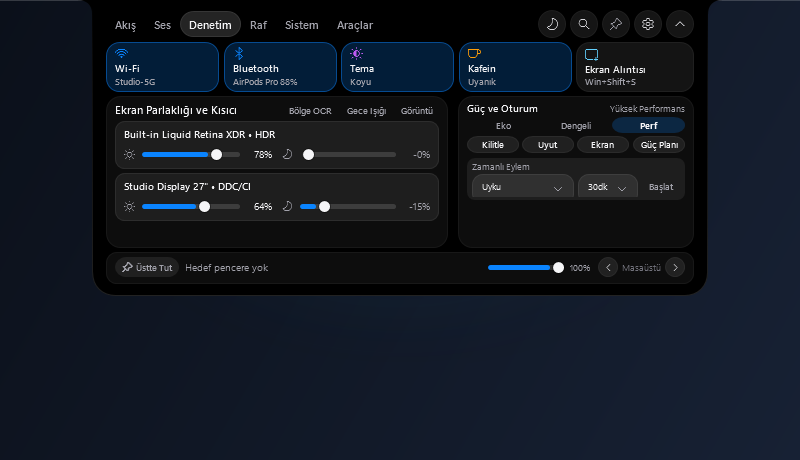
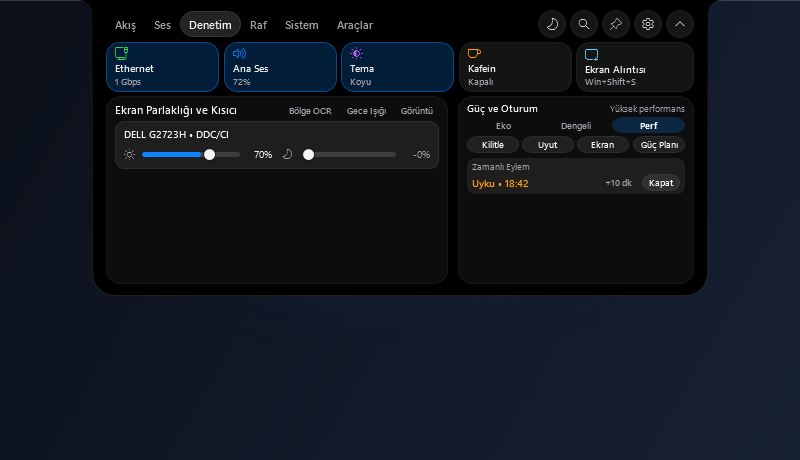
docs: refresh README stats, feature list, and showcase screenshots

diff --git a/README.md b/README.md
@@ -7,11 +7,15 @@
 ![.NET 8](https://img.shields.io/badge/.NET_8-net8.0--windows10.0.26100.0-0D1117?style=flat-square&logo=dotnet&logoColor=58A6FF)
 ![C# 12](https://img.shields.io/badge/C%23_12-x64_Native_Win32%2FCOM-0D1117?style=flat-square&logoColor=A855F7)
 ![License: MIT](https://img.shields.io/badge/License-MIT-0D1117?style=flat-square)
-![Tests: 109 Passed](https://img.shields.io/badge/xUnit-109%20Passing-0D1117?style=flat-square&logoColor=30D158)
+![Tests: 124 Passed](https://img.shields.io/badge/xUnit-124%20Passing-0D1117?style=flat-square&logoColor=30D158)
 
 <br />
 
 <img src="docs/screenshots/now-feed.png" alt="DinamikAda Expanded Feed Hub" width="88%" />
+
+<br /><br />
+
+<img src="docs/screenshots/dock-live-aurora.png" alt="DinamikAda Floating Bottom Dock & Flowing Album Aurora" width="88%" />
 
 </div>
 
@@ -22,10 +26,10 @@
 **DinamikAda** is a zero-WebView, ultra-low-overhead Windows 11 top-notch / floating island workspace utility (`WPF` + `Win32` + `COM` + `WinRT`). It merges live media controls, macOS-style dynamic album ambient aura, per-app CoreAudio mixing, hardware & Night-Light-safe software brightness dimming, real OS telemetry, clipboard encryption vault, LAN QR file drops, region OCR, and a keyboard-driven command palette into a 240Hz-aligned layered island shell.
 
 ### Measured Runtime Characteristics (`--smoke-test`)
-- **Zero WebView / Electron**: Pure WPF shell (`WebView2=False`) with native Win32/COM/WinRT hardware bridges.
-- **Idle CPU**: **`0.018% – 0.055%`** (composition render loop automatically halts when settled or paused).
-- **Motion Engine**: **`160 – 208 FPS`** measured render burst on 240Hz displays using pure `RenderTransform` / `PathGeometry` (zero layout invalidation during motion).
-- **Automated Coverage**: **`109 / 109`** xUnit unit tests + headless GPU & software smoke checks + 30-frame automated render audit.
+- **Zero WebView / Electron**: Pure WPF shell (`WebView2=False`, `RenderMode=SoftwareOnly`) with native Win32/COM/WinRT hardware bridges (`PerMonitorV2=True`).
+- **Idle CPU**: **`0.000% – 0.051%`** (`WorkingSetMB=8.34`, `PrivateMB=65.34`; composition render loop automatically halts when settled or paused).
+- **Motion Engine**: **`225.2 FPS`** measured render burst on 240Hz displays using pure `RenderTransform` / `PathGeometry` (zero layout invalidation during motion).
+- **Automated Coverage**: **`124 / 124`** xUnit unit & integration tests + headless smoke checks (`--smoke-test`) + **33-frame** automated render audit (`--render-audit`).
 
 ---
 
@@ -35,7 +39,7 @@
   <tr>
     <td width="50%" align="center">
       <img src="docs/screenshots/compact-media.png" alt="Compact Media Pill" width="100%" />
-      <sub><b>S2 Compact Pill</b> — Soft album-derived ambient aura & audio bars</sub>
+      <sub><b>S2 Compact Pill</b> — Soft album-derived ambient aura &amp; audio bars</sub>
     </td>
     <td width="50%" align="center">
       <img src="docs/screenshots/command-palette.png" alt="Command Palette" width="100%" />
@@ -44,15 +48,51 @@
   </tr>
   <tr>
     <td width="50%" align="center">
-      <img src="docs/screenshots/audio-mixer.png" alt="CoreAudio Mixer & Voice Note" width="100%" />
-      <sub><b>Audio Tab</b> — WASAPI per-app mixer, endpoint routing & instant WAV voice notes</sub>
+      <img src="docs/screenshots/audio-mixer.png" alt="CoreAudio Mixer &amp; Voice Note" width="100%" />
+      <sub><b>Audio Tab</b> — WASAPI per-app mixer, device routing &amp; 48 kHz WAV voice notes</sub>
     </td>
     <td width="50%" align="center">
       <img src="docs/screenshots/control-center.png" alt="System Control Center" width="100%" />
-      <sub><b>Control Tab</b> — DDC/CI + Win32 WS_POPUP dimmer, caffeine & virtual desktops</sub>
+      <sub><b>Control Tab</b> — DDC/CI + software dimmer, caffeine, power plans &amp; scheduled sleep</sub>
+    </td>
+  </tr>
+  <tr>
+    <td width="50%" align="center">
+      <img src="docs/screenshots/system-telemetry.png" alt="System Telemetry &amp; Process Monitor" width="100%" />
+      <sub><b>System Tab</b> — Live CPU, RAM, GPU VRAM, disk I/O, latency &amp; process monitor</sub>
+    </td>
+    <td width="50%" align="center">
+      <img src="docs/screenshots/widgets-ai-quota.png" alt="Widgets &amp; Multi-AI Quota Tracker" width="100%" />
+      <sub><b>Widgets &amp; AI Quota</b> — Focus Pulse, weather &amp; multi-account ChatGPT / Claude timers</sub>
+    </td>
+  </tr>
+  <tr>
+    <td width="50%" align="center">
+      <img src="docs/screenshots/bottom-dock.png" alt="Floating Curved Bottom Dock" width="100%" />
+      <sub><b>Floating Curved Bottom Dock</b> — Full-height work area, running dots/active pill, Island Sync &amp; album aurora</sub>
+    </td>
+    <td width="50%" align="center">
+      <img src="docs/screenshots/dock-live-aurora.png" alt="Live Desktop Dock Aurora" width="100%" />
+      <sub><b>Live Flowing Dock Aurora</b> — Multi-layer drifting radial ambient glow &amp; border rim shimmer</sub>
+    </td>
+  </tr>
+  <tr>
+    <td width="50%" align="center">
+      <img src="docs/screenshots/dock-tray-popup.png" alt="Tray Overflow Flyout" width="100%" />
+      <sub><b>Tray Overflow Flyout</b> — 5-column background apps menu with light-dismiss &amp; single-instance Chromium/Electron wake</sub>
+    </td>
+    <td width="50%" align="center">
+      <img src="docs/screenshots/dock-calendar-popup.png" alt="Clock &amp; Calendar Pop-up" width="100%" />
+      <sub><b>Clock &amp; Calendar Pop-up</b> — Live clock (HH:mm:ss) &amp; interactive monthly calendar</sub>
     </td>
   </tr>
 </table>
+
+### Floating Bottom Dock & AI Hub Highlights
+- **Floating Curved Dock (`DockWindow`)**: Cleanly hides the Windows taskbar (`ABM_SETSTATE`) so applications expand across the full monitor height (`WorkArea = 1920×1080`) with a curved obsidian capsule, Start Menu launcher, Trash slot, Island sync pill, **Intellihide** auto-hide with bottom-edge peek, and live running dots (`5×5 px`) / foreground active pill (`14×3.5 px`).
+- **Synced Flowing Album Aurora**: Multi-layer 3-orb radial glow (`DockAuraOrbPrimaryBorder`, `DockAuraOrbSecondaryBorder`, `DockAuraOrbHighlightBorder`) and rim shimmer (`DockBorderGlowBrush`) mirror the top island's active album palette while dropping to `0%` CPU when paused or hidden.
+- **Reliable Tray Overflow &amp; Calendar Pop-ups**: Non-activating (`WS_EX_NOACTIVATE`) background tray (`^`) and clock/calendar pop-ups support click-anywhere light-dismiss (`WH_MOUSE_LL`) and restore minimized/tray-hidden Electron &amp; Chromium apps cleanly without window-maximize loss.
+- **Multi-AI Subscription &amp; Quota Tracker**: Monitor multiple ChatGPT, Claude, Gemini, or custom quota countdown timers side-by-side inside the **Araçlar** tab.
 
 ---
 
@@ -72,17 +112,17 @@
 DinamikAda.sln
 ├── src/
 │   ├── DinamikAda.Core                  # Shared contracts, arbitration state machine, localization, config
-│   ├── DinamikAda.Platform.Win32        # Low-level P/Invoke, hotkeys, monitor DPI math, WS_POPUP dimmer, fullscreen detection
+│   ├── DinamikAda.Platform.Win32        # Low-level P/Invoke, hotkeys, DPI & dock layout math, WS_POPUP dimmer, fullscreen & restore detection
 │   ├── DinamikAda.Modules.Media         # GSMTC, CoreAudio COM/WASAPI, spectrum FFT, LRC lyrics, WAV notes
 │   ├── DinamikAda.Modules.SystemControl # DDC/CI brightness, network/power state, USB arrival/eject
 │   ├── DinamikAda.Modules.Telemetry     # Real CPU/GPU/VRAM/Disk/Net counters, ICMP ping, OS cleanup
 │   ├── DinamikAda.Modules.Productivity  # File shelf, EXIF cleaner, DPAPI clipboard, OCR, QR LAN transfer, iCalendar
 │   ├── DinamikAda.Modules.Notifications # Windows Action Center notification mirroring & modal viewer
-│   ├── DinamikAda.Modules.Widgets       # Isolated custom widget host with circuit breaker
-│   ├── DinamikAda.Modules.CommandHub    # Fuzzy command palette, window snapping, localhost Developer Bridge
-│   └── DinamikAda.App                   # WPF layered island shell, 240Hz motion engine & orchestrator
+│   ├── DinamikAda.Modules.Widgets       # Isolated custom widget host with circuit breaker & multi-AI quota tracker
+│   ├── DinamikAda.Modules.CommandHub    # Fuzzy command palette, window snapping/desktop control, localhost Developer Bridge
+│   └── DinamikAda.App                   # WPF layered island & floating bottom dock shell, tray/calendar pop-ups, 240Hz aurora motion & orchestrator
 └── tests/
-    └── DinamikAda.Tests                 # 109 xUnit unit & integration tests
+    └── DinamikAda.Tests                 # 124 xUnit unit & integration tests
 ```
 
 ---
@@ -98,7 +138,7 @@ DinamikAda.sln
 # Restore & build Release|x64
 dotnet build DinamikAda.sln -c Release -p:Platform=x64 -m
 
-# Run unit tests (109 tests)
+# Run unit tests (124 tests)
 dotnet test tests\DinamikAda.Tests\DinamikAda.Tests.csproj -c Release -p:Platform=x64 --no-build --verbosity normal
 
 # Publish standalone output to .\artifacts\app\
@@ -114,7 +154,7 @@ powershell -NoProfile -ExecutionPolicy Bypass -File .\scripts\build.ps1
 .\artifacts\app\DinamikAda.App.exe --smoke-test --duration-sec 6 --trace
 .\artifacts\app\DinamikAda.App.exe --smoke-test --sw --duration-sec 5 --trace
 
-# Offline 30-frame WPF render audit
+# Offline 33-frame WPF render audit
 .\artifacts\app\DinamikAda.App.exe --render-audit .\render_audit
 ```
 
